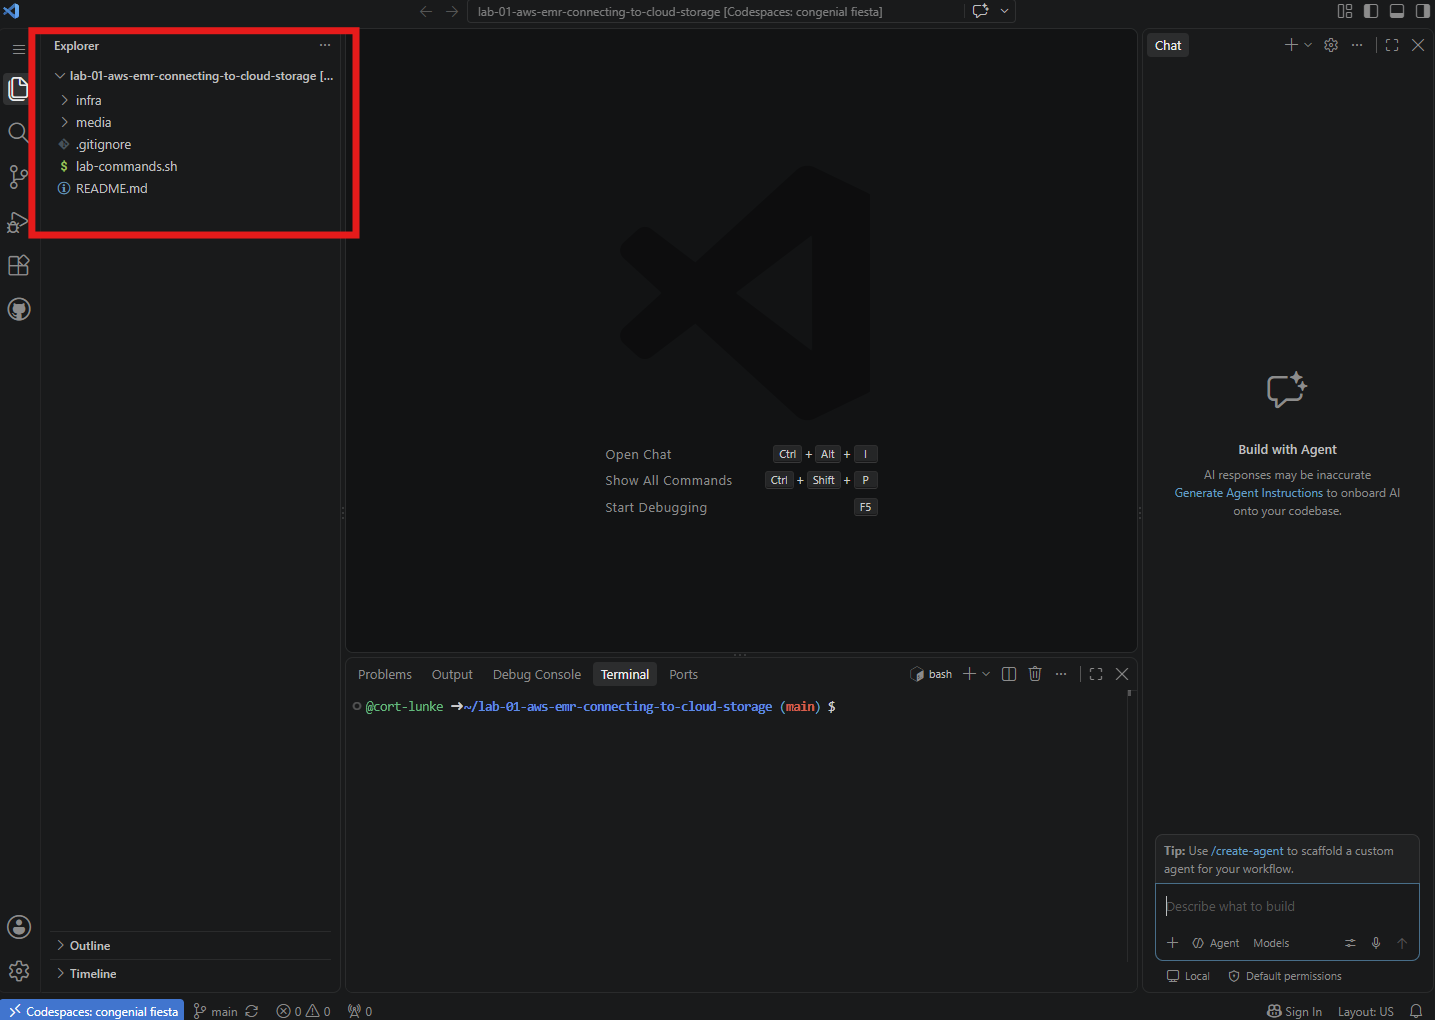
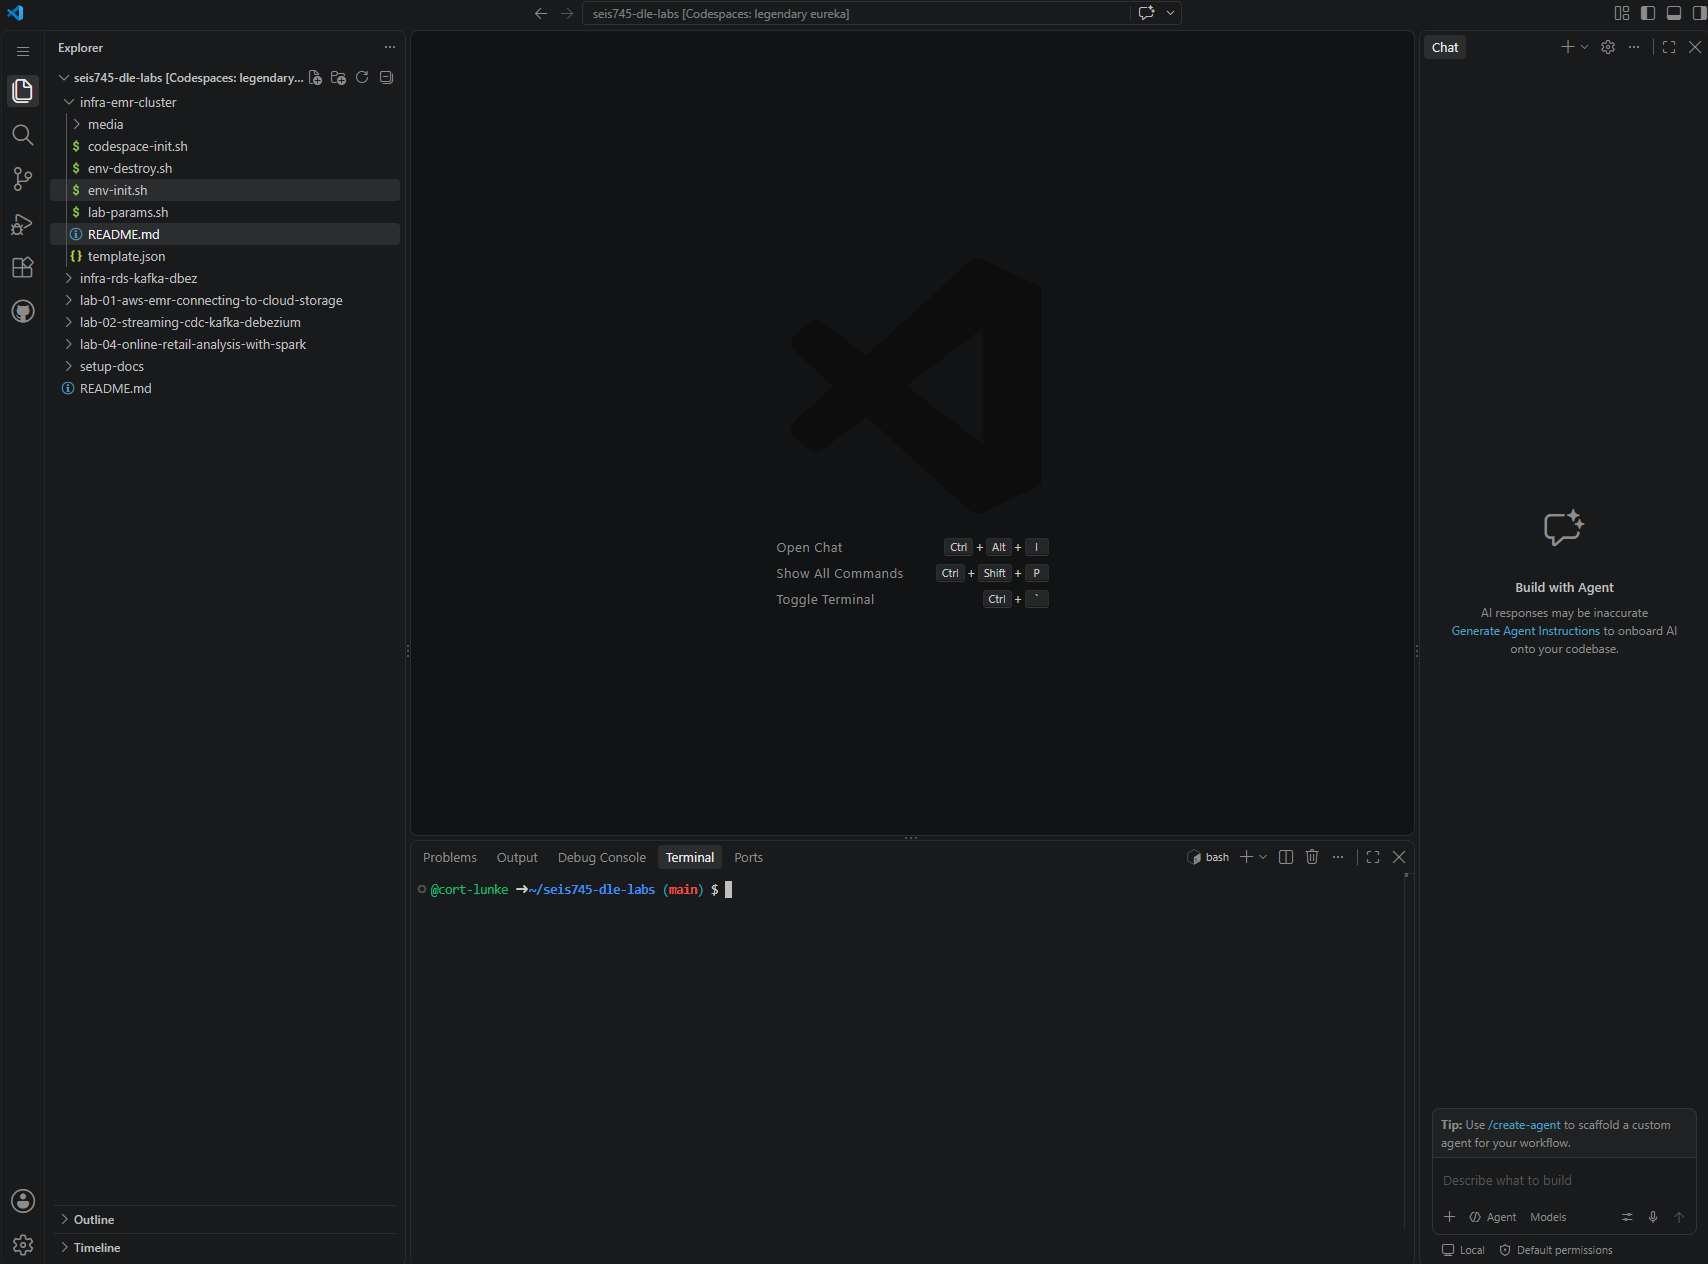
Commit of documentation for lab 4 and fixes during testing.

diff --git a/lab-04-online-retail-analysis-with-spark/README.md b/lab-04-online-retail-analysis-with-spark/README.md
@@ -1,0 +1,213 @@
+## 
+
+## 
+
+## Introduction 
+
+In this homework you will first walk through a guided lab section to
+stand up a Hadoop cluster on Amazon Elastic MapReduce (EMR) running one
+master node and two data nodes. Then, you will use Spark to move data
+from the MySQL database running on the Hadoop master node to your S3
+storage bucket. Finally, you will complete the homework assignment by
+using Spark RDDs to answer some questions regarding an online retail
+dataset.
+
+## Pre-requisites
+
+As a prerequisite to this lab section you should have access to our
+class AWS environment and an Amazon Cloud9 development environment up
+and running.
+
+## Section 1: Clone or pull git repository and stand up lab infrastructure
+
+Complete all steps within setup-docs to ensure your AWS lab environment
+is up and running, your GitHub Codespace is running and accessible in
+your browser, and you have either cloned ('git clone' in the CLI or
+command pallete) or pulled the latest changes ('git pull').  The
+repository URL is
+[**https://github.com/UST-SEIS-745-DLE-Labs/seis745-dle-labs**](https://github.com/UST-SEIS-745-DLE-Labs/seis745-dle-labs).
+
+The directory for this lab is lab-04-online-retail-analysis-with-spark.
+
+## Section 2: Deploy lab infrastructure
+
+Infrastructure is managed in a separate repo folder for reusability.
+ This lab relies on the 'infra-emr-cluster' folder.  Follow instructions
+in infra-emr-cluster/README.md (open in GitHub or Open Preview in VS
+Code / Codespace) to deploy necessary lab infrastructure.
+
+## Section 3: Take a look at the new infrastructure then transfer files and connect to the Hadoop master node
+
+1.  Navigate to the EC2 instances page. You should have three EC2
+    instances either starting or running. Note that these were created
+    when we deployed our CloudFormation template above. Specifying
+    infrastructure in formats like AWS CloudFormation is known as
+    infrastructure as code (IAC). This helps keep infrastructure under
+    version control and in sync between environments. It also makes it
+    easy to destroy and recreate infrastructure.
+
+> EC2 instances at <https://console.aws.amazon.com/ec2>:
+
+- A single Hadoop master node
+
+- Two Hadoop data nodes
+
+<img src="./media/image1.png" style="width:7.5in;height:1.85903in" />
+
+2.  Find the S3 bucket that was created as part of your CloudFormation
+    deployment. Note the bucket name for later in the lab. Navigate to
+    the S3 service either by navigating the AWS management console or
+    navigating directly to <https://console.aws.amazon.com/s3>.
+
+<img src="./media/image2.png" style="width:7.5in;height:3.99861in"
+alt="Graphical user interface, text, application Description automatically generated" />
+
+3.  The following commands initialize lab parameters, query our existing
+    S3 bucket name, leverage the AWS CLI to identify the ID for our
+    running Hadoop cluster, pause execution until the cluster is
+    running, and query the public host (DNS) name of the master node.
+    Then, we use the private key we created earlier to transfer files
+    over scp and connect to the remote master node over ssh.
+
+<img src="./media/image3.png"
+style="width:7.45209in;height:3.32722in" />
+
+4.  Take note of the HUE URL printed to the console. You will need this
+    later in the lab:
+
+<img src="./media/image4.png"
+style="width:12.29323in;height:0.39612in" />
+
+## Section 4: Getting started with Spark: Inspecting the database
+
+1.  In this section, we will use the local **mysql** database running on
+    the Hadoop master node as our data source. First, make sure you are
+    connected to the EMR master node:
+
+<img src="./media/image5.png" style="width:7.5in;height:3.43958in" />
+
+2.  Try to connect to the local mysql database using the **mysql**
+    command line, passing in the username and password. Then, create a
+    spark user for use by the Spark runtime and grant it all privileges
+    on the database. Finally, run a command to initialize the retail_db
+    database used in this lab and execute a test query.
+
+<img src="./media/image6.png" style="width:7.5in;height:2.48542in" />
+
+3.  Set some environment variables for Spark:
+
+<img src="./media/image7.png" style="width:7.5in;height:1.45903in" />
+
+4.  Now let's try connecting using the pyspark command line interface
+    and the new user we created:
+
+<img src="./media/image8.png"
+style="width:6.91763in;height:6.00084in" />
+
+In the bash terminal:
+
+<img src="./media/image9.png" style="width:7.5in;height:3.40625in" />
+
+5.  Passing a password from environment variables is insecure. With a
+    few simple hdfs and hadoop commands, let's secure our password in a
+    Java keystore. Then, we'll configure Spark to use the password from
+    that keystore to connect to the database. Finally, we can use the
+    password alias from the keystore in our Spark application,
+    eliminating the need for passing the password directly as an
+    environment variable.
+
+<img src="./media/image10.png"
+style="width:7.80145in;height:1.05392in" />
+
+## Section 5: Read relational data into S3 using Spark
+
+1.  In this section, you will collect retail_db data from a MySQL
+    database and write it to your S3 bucket using Spark. Start by using
+    the PySpark REPL (read, execute, print, loop) interface to import
+    the orders table from our retail_db schema and save it as a CSV file
+    in Hadoop.
+
+2.  Initialize the pyspark shell again, this time leveraging the secure
+    credential store we created in HDFS and passing in the name of our
+    S3 bucket:
+
+<img src="./media/image11.png"
+style="width:6.18836in;height:2.3024in" />
+
+3.  Create a function for importing tables into S3:
+
+<img src="./media/image12.png" style="width:7.5in;height:2.02222in" />
+
+4.  After importing all retail_db tables, exit the pyspark shell and
+    exit one more time to return control back to your GitHub Codespace
+    session:
+
+<img src="./media/image13.png" style="width:7.5in;height:1.93611in" />
+
+## Section 6: Analyze data leveraging Spark RDDs and Hue
+
+1.  With your EMR cluster up and running and transactional data
+    replicated to S3 in parquet format, you’re ready to analyze that
+    data using Spark RDDs.
+
+2.  Find the public hostname for your EMR master node. You may find this
+    printed to standard out in an earlier section of this lab, or in the
+    Summary section of your EMR cluster in the AWS management console.
+
+An example URL will be
+<http://ec2-1-11-11-11.compute-1.amazonaws.com:8888>. Note that you will
+have to change the domain name to match yours.
+
+<img src="./media/image14.png" style="width:5.72917in;height:4.00785in"
+alt="Graphical user interface, text, application, email Description automatically generated" />
+
+3.  Log into the Hadoop User Experience (Hue) application running on the
+    master node. It is running on port 8888 and may be accessed through
+    your browser. Your first time logging in you will need to configure
+    a username and password.
+
+4.  
+
+<img src="./media/image15.png"
+style="width:2.20185in;height:2.85608in" />
+
+**Note:** If you are having trouble connecting to Hue, double check the
+inbound rules in the security group for your EMR master node. You may
+have forgotten to update your IP address in section 1.
+
+5.  <img src="./media/image16.png" style="width:6.12847in;height:5in"
+    alt="Graphical user interface, text, application Description automatically generated" />Select
+    the PySpark code editor but note the other options that are
+    available to you in Hue:
+
+6.  There is some code to get you started in the retail-analysis.py
+    python script included with this lab. Update your S3 bucket name in
+    line 1 of the script. Inspect and execute this code which reads
+    online retail data from S3 into an RDD, then leverages RDD
+    operations to determine the highest product sold by volume.
+
+<img src="./media/image17.png" style="width:7.5in;height:4.59306in" />
+
+7.  Finally, analyze the online retail dataset on your own to complete
+    the homework assignment included with these instructions.
+
+## Section 7: Destroying your Amazon EMR Cluster
+
+1.  Ensure you have completed the requirements of this assignment before
+    deleting your cloud resources.
+
+2.  The ../infra-emr-cluster/env-destroy.sh script will clean up lab
+    resources, ensuring your AWS environment is left in a clean state
+    when you start the next lab or decide to rerun the current lab. Note
+    that EMR clusters are ephemeral; once terminated there is no
+    restarting them. Instead, you deploy a new cluster the next time you
+    need it.
+
+3.  Finally, reflect on the lab and dig into some of the supporting
+    files that we used automatically deploy and configure our EMR
+    environment.
+
+• retail_db.sql borrowed to put sample data in our mysql database
+
+• template.json used to specify in JSON and AWS CloudFormation format
+the infrastructure used by our lab.

diff --git a/infra-emr-cluster/README.md b/infra-emr-cluster/README.md
@@ -93,3 +93,5 @@ line. Be sure to observe the output on your terminal.
         nodes (and a driver node) running both Spark and HDFS. This step
         may take 15+ minutes as you provision a big data cluster from
         scratch.
+
+![](./media/image7.png)
